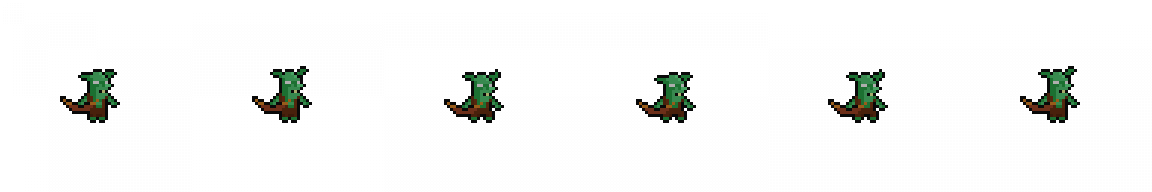
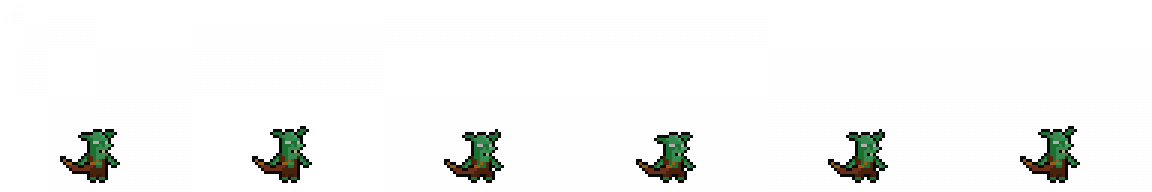
Change characters locations on sprites and fix issue with character animations durations

diff --git a/src/app/game/character/character-sprite/character-sprite.component.ts b/src/app/game/character/character-sprite/character-sprite.component.ts
@@ -24,9 +24,9 @@ import SpriteService from '../services/sprite.service';
       }),
       transition(
         'firstFrame => lastFrame',
-        animate('600ms {{animationSteps}}'),
+        animate('{{animationDuration}} {{animationSteps}}'),
         {
-          params: { animationSteps: '' },
+          params: { animationSteps: '', animationDuration: '' },
         }
       ),
     ]),
@@ -41,11 +41,13 @@ export class CharacterSpriteComponent
   @ViewChild('characterSpriteImage') private spriteImage: ElementRef;
   spriteOffset: string;
   animationSteps: string;
+  animationDuration: string;
   animationState = 'firstFrame';
 
   private wasAnimationSet = false;
   private readonly FIRST_FRAME_STATE = 'firstFrame';
   private readonly LAST_FRAME_STATE = 'lastFrame';
+  private readonly ANIMATION_DURATIONUNIT = 'ms';
 
   constructor(
     private store: Store<AppStoreState>,
@@ -54,11 +56,12 @@ export class CharacterSpriteComponent
 
   ngOnInit(): void {
     if (this.character) {
+      const firstAnimation = this.character.animations[0];
       this.spriteOffset =
-        this.spriteService.getAnimationSpriteOffset(
-          this.character.animations[0]
-        ) + 'px';
-      this.animationSteps = `steps(${this.character.animations[0].numberOfFrames})`;
+        this.spriteService.getAnimationSpriteOffset(firstAnimation) + 'px';
+      this.animationSteps = `steps(${firstAnimation.numberOfFrames})`;
+      this.animationDuration =
+        firstAnimation.animationTimeInMiliseconds + this.ANIMATION_DURATIONUNIT;
     }
 
     this.chosenCardSubscription$ = this.store

diff --git a/src/app/game/character/character-sprite/character-sprite.component.html b/src/app/game/character/character-sprite/character-sprite.component.html
@@ -8,7 +8,11 @@
     [ngClass]="{ 'character_sprite__image--rotated': isEnemy() }"
     [@animate]="{
       value: animationState,
-      params: { spriteOffset: spriteOffset, animationSteps: animationSteps }
+      params: {
+        spriteOffset: spriteOffset,
+        animationSteps: animationSteps,
+        animationDuration: animationDuration
+      }
     }"
     (@animate.done)="onEndAnimation($event)"
     class="character_sprite__image"

diff --git a/src/app/game/enemy/enemy.data.ts b/src/app/game/enemy/enemy.data.ts
@@ -44,7 +44,7 @@ const exampleEnemy2: Character = {
     {
       spriteSheet: 'idle',
       numberOfFrames: 11,
-      animationTimeInMiliseconds: 1100,
+      animationTimeInMiliseconds: 1700,
       animationIterationCount: 'Infinite',
     },
   ],

diff --git a/src/app/game/character/character-sprite/character-sprite.component.css b/src/app/game/character/character-sprite/character-sprite.component.css
@@ -16,6 +16,7 @@
 .character_sprite__wrapper--selectable {
   border: 3px white solid;
 }
+
 .character_sprite__wrapper--selectable:hover {
   cursor: pointer;
 }

diff --git a/src/app/game/player/player-layout/player-layout.component.css b/src/app/game/player/player-layout/player-layout.component.css
@@ -1,7 +1,7 @@
 .player_layout__wrapper {
   position: absolute;
-  top: -1%;
-  left: 12%;
+  top: -10%;
+  left: 5%;
   display: flex;
 }
 
